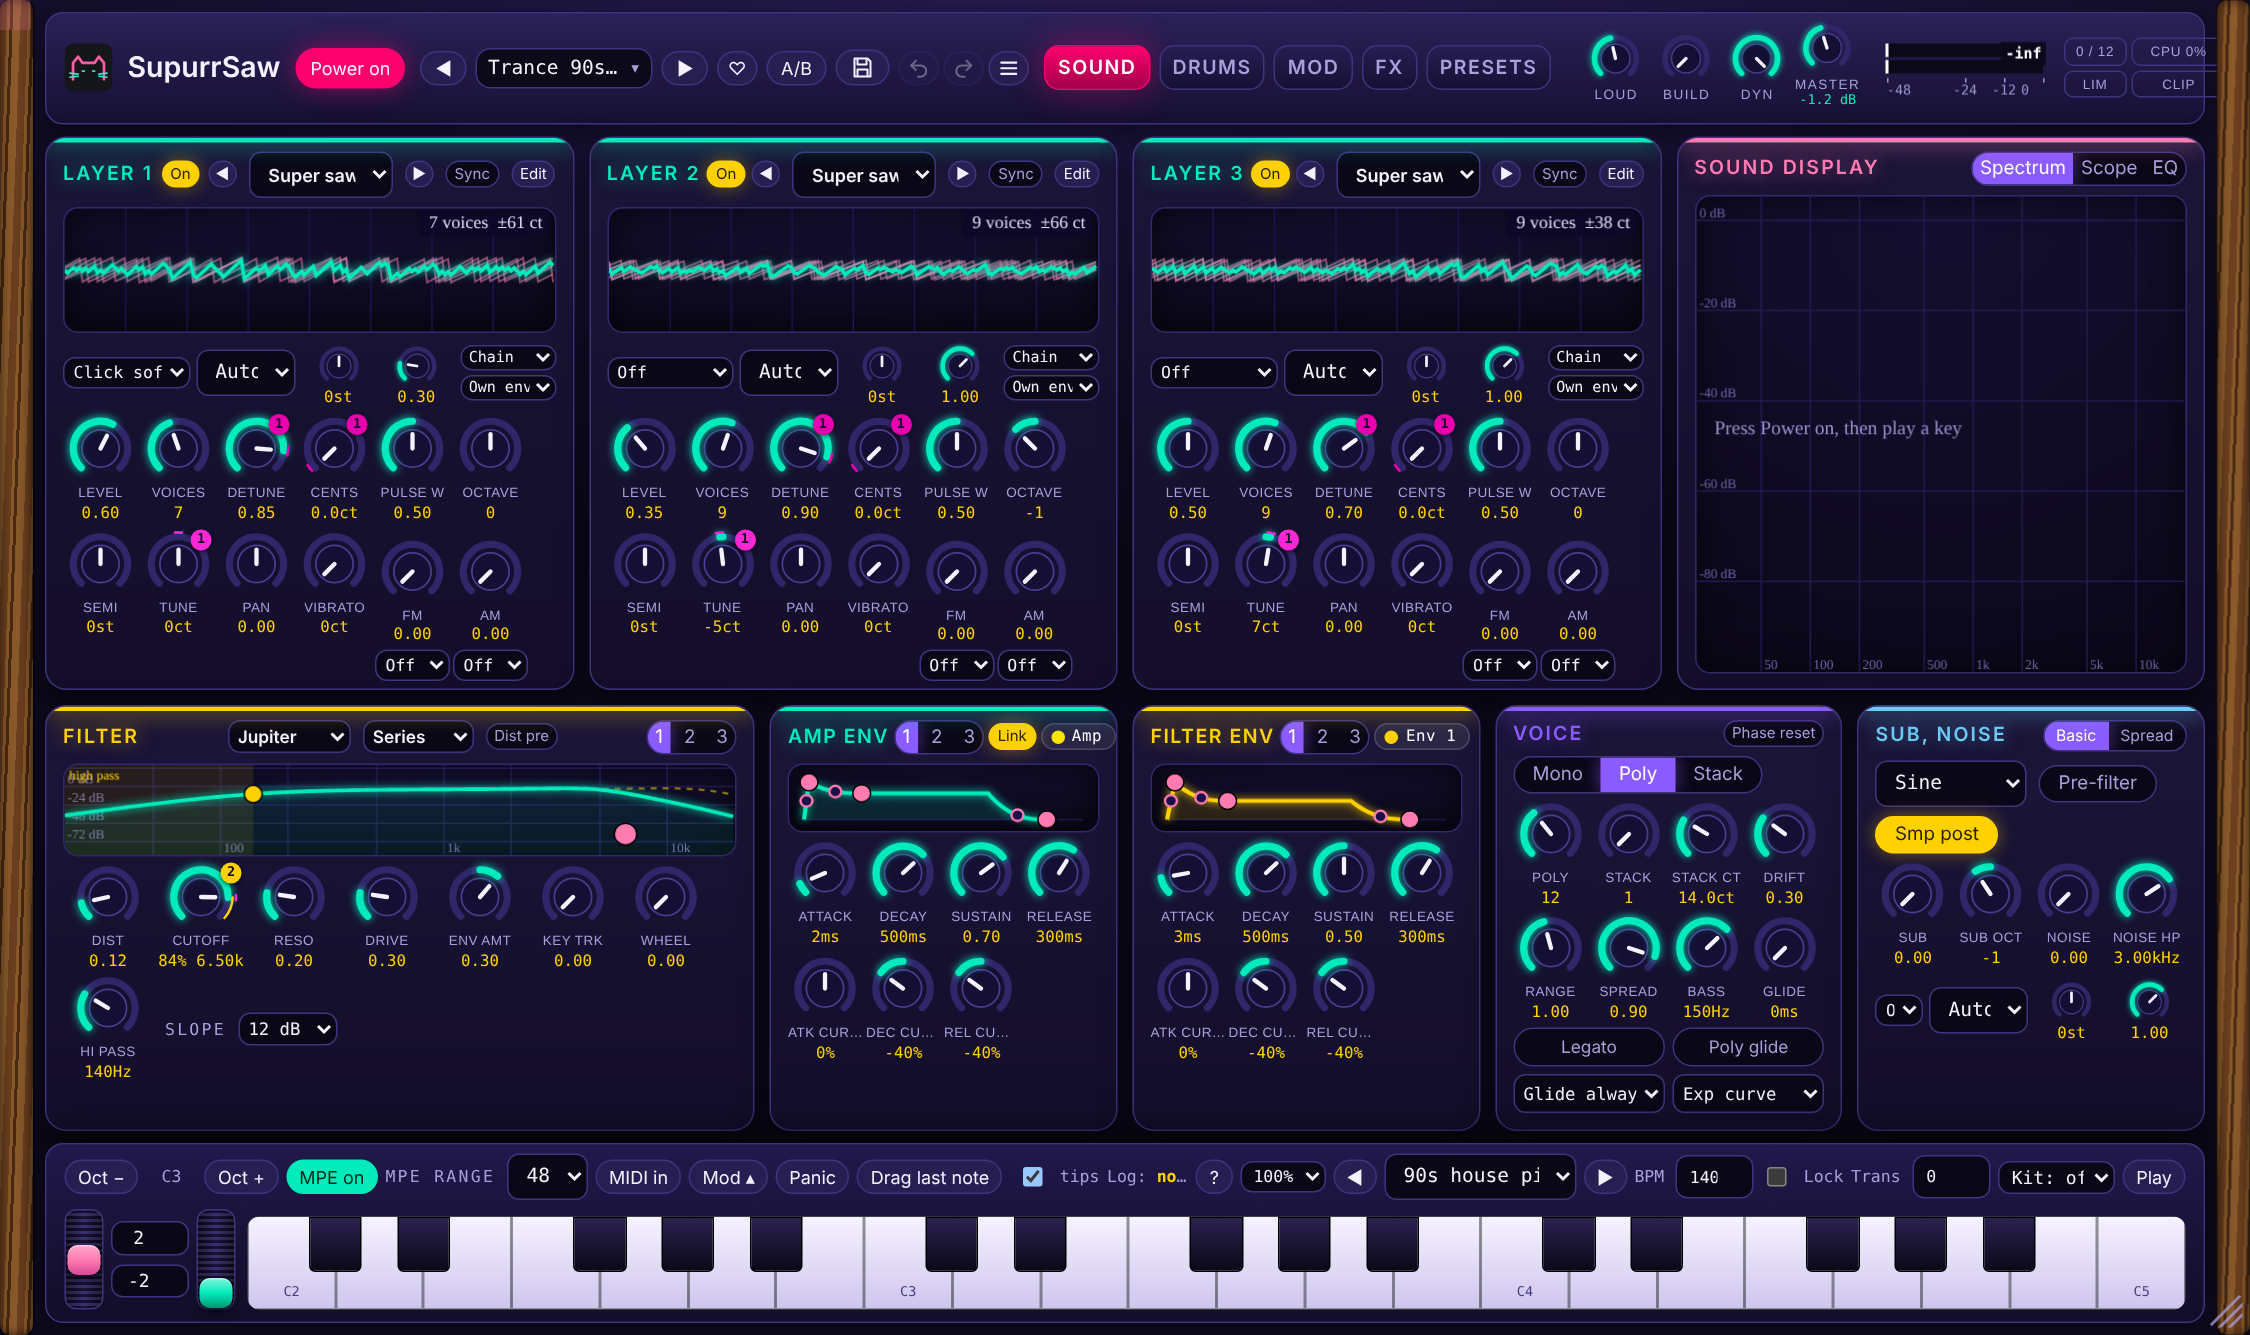
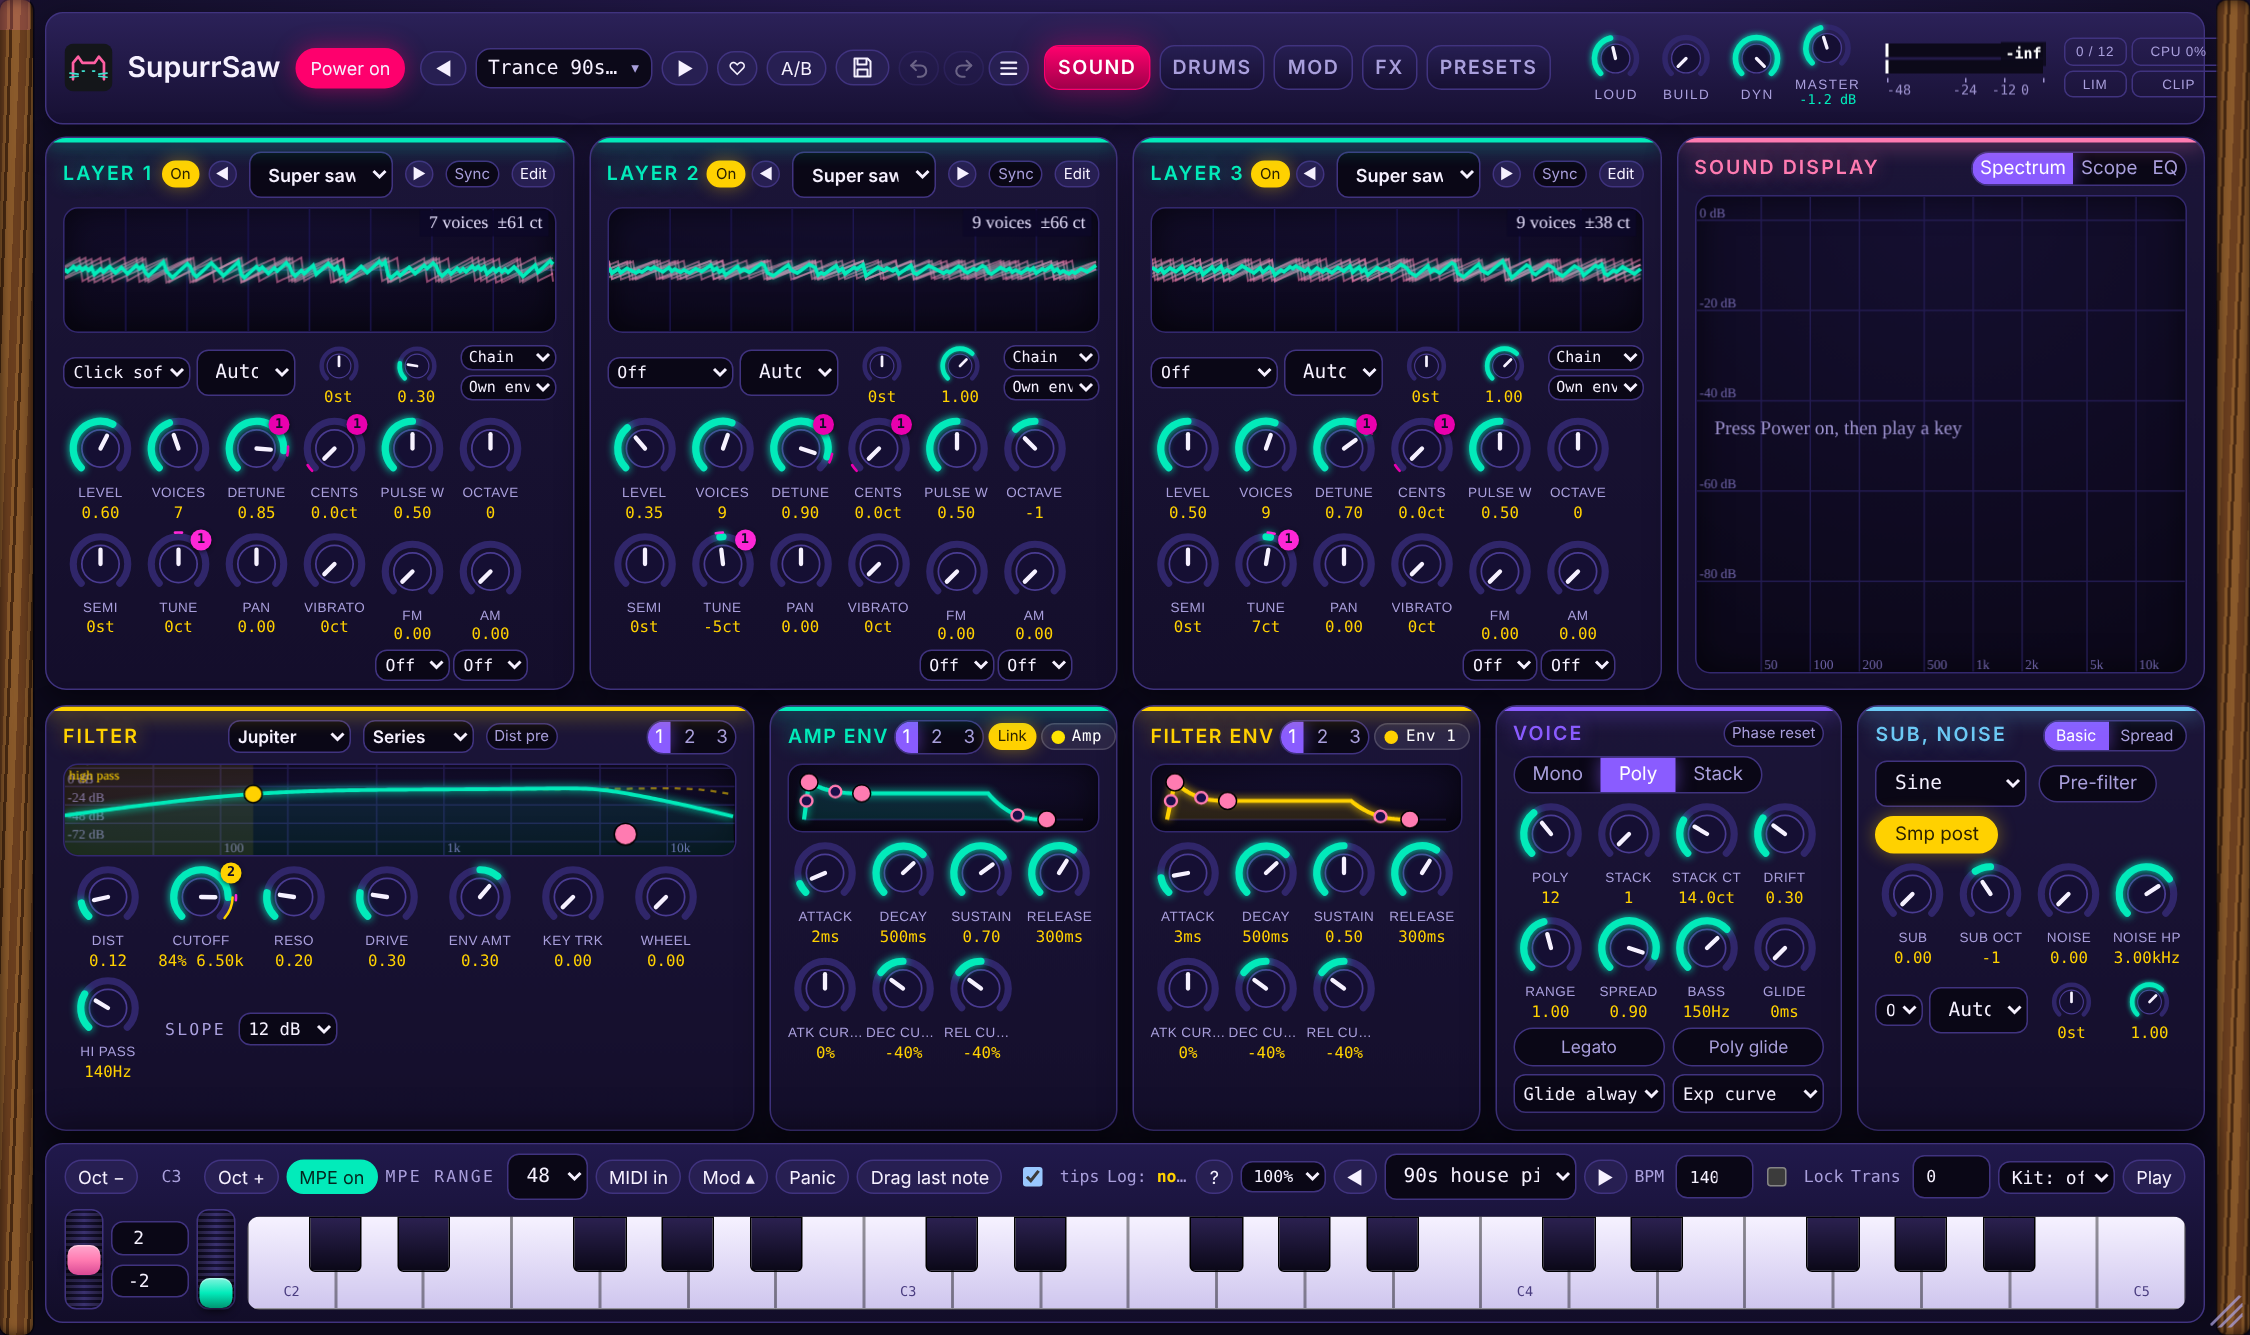
FX modules: previous/next preset arrows, Default and OFF presets in every list
Claude-Session: https://claude.ai/code/session_015F85RWM9RCbLtwwXZANyrz

Changed region(s): [[0.28, 0.1843, 0.7467, 0.215], [0.0311, 0.1843, 0.2489, 0.215]]

diff --git a/ui/supurrsaw-playground.html b/ui/supurrsaw-playground.html
@@ -228,6 +228,7 @@ canvas{display:block;max-width:100%}
 .pbr .chip.on{background:#ffa600;border-color:#ffa600;color:#241600}.pbbanks .chip.on{background:#ffa600;border-color:#ffa600;color:#241600}
 .pbfoot{display:flex;justify-content:flex-end;align-items:center;gap:10px;padding:10px 22px 14px;border-top:1px solid var(--line)}.pbfoot .pill{margin-right:auto}
 
+.fxpw{display:inline-flex;align-items:center;gap:2px;flex:0 0 auto;min-width:0}.fxar{all:unset;box-sizing:border-box;cursor:pointer;width:15px;height:21px;display:inline-flex;align-items:center;justify-content:center;font-size:8px;color:#a99fdc;border-radius:5px}.fxar:hover{color:#ffa600;background:#2a2060}.fxar:active{transform:scale(.92)}
 .dlg{position:fixed;inset:0;background:#05030fcc;display:flex;align-items:center;justify-content:center;z-index:50}.dlg[hidden]{display:none}
 .dbox{background:#150f33;border:1px solid var(--mint);border-radius:14px;padding:18px 20px;width:min(420px,92vw);box-shadow:0 10px 40px #000a}
 .dbox h3{margin:0 0 8px;font-family:Fredoka,sans-serif;letter-spacing:1px;color:var(--mint)}.dbox p{margin:0 0 12px;color:var(--fg);line-height:1.5;font-size:13.5px}
@@ -2360,6 +2361,19 @@ const FXPS={
     ["Drive off",{drvDrive:0,drvXs:0,drvFuzz:0}],
     ["Crush off",{crushMix:0}]]}
 };
+/* every module starts its list with Default (a basic working setting) and OFF (the module does nothing) */
+const FXPS_BASE={
+  mod:[{modFxType:0,chorusMix:0.25,chorusDepth:0.5,chorusRate:0.6,chorusDelay:12,chorusWidth:1,chorusFb:0.5},{chorusMix:0}],
+  dly:[{delayMix:0.25,delaySync:false,delayDiv:7,delayTime:0.25,delayFb:0.4,delayDamp:0.7,delayPing:1},{delayMix:0}],
+  rev:[{reverbMix:0.15,reverbSize:0.6,reverbWidth:0.8,reverbLowCutHz:150,reverbPre:0,reverbDamp:0.25},{reverbMix:0}],
+  sqz:[{sqzAmt:0.3,sqzAtk:4,sqzRel:90,sqzMakeup:0},{sqzAmt:0}],
+  opto:[{optoAmt:0.4,optoRel:1,optoGain:0},{optoAmt:0}],
+  ott:[{ottDepth:0.3,ottMix:0.3,ottLow:0,ottMid:0,ottHigh:0,ottTime:1},{ottDepth:0,ottMix:0}],
+  dm:[{dmMix:0.4,dmDrive:0.5,dmClip:0.35,dmLow:0,dmMid:0,dmHigh:0},{dmMix:0}],
+  wid:[{widMid:1,widHi:1,bassMonoHz:120,msMid:0,msSide:0},{widMid:1,widHi:1,msMid:0,msSide:0}],
+  pit:[{pitchAmt:0,pitchHold:0,pitchCurve:0,pitchTime:0.09,pitchAttack:0,pitchFall:0,pitchFallTime:1},{pitchAmt:0,pitchFall:0}],
+  drv:[{drvDrive:0.25,drvXs:0,drvFuzz:0,drvMix:1,crushMix:0,crushBits:16,crushRate:1},{drvDrive:0,drvXs:0,drvFuzz:0,crushMix:0}]};
+for(const id in FXPS_BASE)if(FXPS[id]&&!FXPS[id].list.some(x=>x[0]==="Default"))FXPS[id].list.unshift(["Default",FXPS_BASE[id][0]],["OFF",FXPS_BASE[id][1]]);
 const FXPS_TITLE={"Mod FX":"mod","Delay":"dly","Reverb":"rev","Squeeze":"sqz","Opto leveller":"opto","OTT":"ott","Drive":"drv"};
 const FXU={};   // your own presets per effect: {id:[[name,{...}],...]}
 function fxpsSave(id){try{if(DB)DB.doc("fxpresets/"+id).set({list:(FXU[id]||[]).slice(0,60).map(([n,p])=>({name:n,p:JSON.stringify(p)}))});}catch(e){}}
@@ -2371,28 +2385,32 @@ function fxpsApply(id,p){const keys=FXPS[id].keys;
   if(id==="mod"){if(typeof mfxLast!=="undefined")mfxLast=P.modFxType|0;mfxPush(true);}}
 function fxpsSnap(id){const o={};FXPS[id].keys.forEach(k=>{if(k!=="mfxMulti")o[k]=P[k];});if(id==="mod"&&P.mfxMulti){const nt=P.modFxType|0,mu={};for(let t=0;t<3;t++){if(t===nt)continue;const st=MFXS[t];if(st)mu[t]=Object.assign({},st);}o.multi=mu;}return o;}
 function fxpsMenu(c,id,ref,host,title){
-  const h2=c.querySelector("h2"),s=el("select",ref?ref.className:"");s.style.cssText="max-width:"+(id==="opto"?"78px":"112px")+";min-width:0;font-size:10.5px;padding:2px 4px";h2.style.whiteSpace="nowrap";h2.style.gap="6px";
+  const h2=c.querySelector("h2"),s=el("select",ref?ref.className:"");s.style.cssText="max-width:"+(id==="opto"?"60px":(id==="mod"?"92px":"108px"))+";min-width:0;font-size:10.5px;padding:2px 4px";h2.style.whiteSpace="nowrap";h2.style.gap="6px";
   s.dataset.tip="Presets for this effect. Pick one to load its knob settings. Choose Save current to keep your own, they stay in the list.";
   let applying=false,cur="";
   const fill=()=>{s.innerHTML="";const add=(p,t,v)=>{const o=document.createElement("option");o.value=v;o.textContent=t;p.appendChild(o);};
     add(s,"Presets","");
     const g1=document.createElement("optgroup");g1.label="Factory";FXPS[id].list.forEach(([n],i)=>add(g1,n,"f"+i));s.appendChild(g1);
-    const u=FXU[id]||[];if(u.length){const g2=document.createElement("optgroup");g2.label="Mine";u.forEach(([n],i)=>add(g2,n,"u"+i));s.appendChild(g2);}
+    const u=FXU[id]||[];if(u.length){const g2=document.createElement("optgroup");g2.label="Mine";u.forEach(([n],i)=>add(g2,FXPS[id].list.some(x=>x[0]===n)?n+" (mine)":n,"u"+i));s.appendChild(g2);}
     const g3=document.createElement("optgroup");g3.label="Manage";add(g3,"Save current...","save");if(cur[0]==="u")add(g3,"Delete this preset","del");s.appendChild(g3);s.value=cur;};
   fill();
+  const load=v=>{const p=v[0]==="f"?FXPS[id].list[+v.slice(1)][1]:(FXU[id]||[])[+v.slice(1)][1];if(!p)return;
+    applying=true;fxpsApply(id,p);applying=false;cur=v;fill();
+    if(id==="drv"){const want=("crushMix" in p)&&!("drvDrive" in p)?"Crush":"Drive";const tb=[...c.querySelectorAll(".seg button")].find(x=>x.textContent.trim()===want);if(tb)tb.click();}};
+  const step=d=>{const all=[];FXPS[id].list.forEach((_,i)=>all.push("f"+i));(FXU[id]||[]).forEach((_,i)=>all.push("u"+i));if(!all.length)return;let i=all.indexOf(cur);i=i<0?(d>0?0:all.length-1):(i+d+all.length)%all.length;load(all[i]);};
   s.onchange=async()=>{const v=s.value;
     if(v==="save"){const t=title||h2.firstChild.textContent.trim();const r=await ask({title:"Save "+t+" preset",msg:"Saves the current "+t+" settings under this name.",input:"My "+t.toLowerCase(),buttons:[{t:"Save",k:"on",def:1},{t:"Cancel"}]});
       if(r.b==="Save"&&r.v&&r.v.trim()){const n=r.v.trim().slice(0,40),u=FXU[id]||(FXU[id]=[]),i=u.findIndex(x=>x[0]===n);if(i>=0)u[i]=[n,fxpsSnap(id)];else u.push([n,fxpsSnap(id)]);fxpsSave(id);cur="u"+(i>=0?i:u.length-1);}fill();return;}
     if(v==="del"){const i=+cur.slice(1),u=FXU[id]||[];if(u[i]){const r=await ask({title:"Delete this preset?",msg:"\""+u[i][0]+"\" will be removed from your list.",buttons:[{t:"Delete",k:"danger"},{t:"Keep",k:"on",def:1}]});if(r.b==="Delete"){u.splice(i,1);fxpsSave(id);cur="";}}fill();return;}
     if(!v){cur="";return;}
-    const p=v[0]==="f"?FXPS[id].list[+v.slice(1)][1]:(FXU[id]||[])[+v.slice(1)][1];if(!p)return;
-    applying=true;fxpsApply(id,p);applying=false;cur=v;fill();
-    if(id==="drv"){const want=("crushMix" in p)&&!("drvDrive" in p)?"Crush":"Drive";const tb=[...c.querySelectorAll(".seg button")].find(x=>x.textContent.trim()===want);if(tb)tb.click();}};
+    load(v);};
   onChange(k=>{if(!applying&&cur&&(FXPS[id].keys.includes(k)||k==="all")){cur="";fill();}});
   c._fxFill=()=>{fill();};c._fxId=id;
-  if(host){host.appendChild(s);return s;}
+  const arrow=(t,d,tip)=>{const b=el("button","fxar",t);b.type="button";b.dataset.tip=tip;b.onclick=e=>{e.stopPropagation();step(d);};return b;};
+  const wrap=el("span","fxpw");wrap.append(arrow("\u25C0",-1,"Previous preset of this effect (wraps around)."),s,arrow("\u25B6",1,"Next preset of this effect (wraps around)."));
+  if(host){host.appendChild(wrap);return s;}
   const sub=h2.querySelector(".sub");if(sub)sub.remove();
-  h2.appendChild(s);return s;}
+  h2.appendChild(wrap);return s;}
 function fxpsAttach(F){const ref=F.querySelector("select");F.querySelectorAll(".card").forEach(c=>{const h=c.querySelector("h2");if(!h||!h.firstChild)return;const id=FXPS_TITLE[h.firstChild.textContent.trim()];if(id)fxpsMenu(c,id,ref);});}
 function buildFx(F){
   // output and limiter
@@ -2422,7 +2440,7 @@ function buildFx(F){
      for(let b=0;b<3;b++){const a=hist[b];g.strokeStyle=cols[b];g.lineWidth=2;g.beginPath();a.forEach((v,i)=>{const x=w-(a.length-i)*2,y=3+clamp(v/R,0,1)*(h-8);i?g.lineTo(x,y):g.moveTo(x,y);});g.stroke();}
      g.fillStyle="#a99fdc";g.font="9px IBM Plex Mono";g.fillText("squeeze: low / mid / high",4,h-3);g.textAlign="right";g.fillText("0 dB",w-3,10);g.textAlign="left";},"Gain reduction of the three bands over the last seconds, newest on the right. Higher on the graph means more reduction.");
    STAGE&&(c1.classList.remove("fl"),c2.classList.remove("fl"));c1.style.flex="1";c2.style.flex="2";c1.style.minWidth="0";c2.style.minWidth="0";c1.style.marginTop=c2.style.marginTop="0";gr.appendChild(c1);gr.appendChild(c2);c.appendChild(gr);
-   {const dp=el("div","vf"),wp=el("div","vf");[...c.children].slice(1).forEach(x=>dp.appendChild(x));c.appendChild(dp);c.appendChild(wp);wp.hidden=true;const dr=el("div","row"),wr=el("div","row");dr.style.cssText=wr.style.cssText="justify-content:flex-start;margin-bottom:4px";dp.insertBefore(dr,dp.firstChild);wp.insertBefore(wr,wp.firstChild);{const g0=dp.querySelector("canvas");gr.querySelectorAll("canvas").forEach(x=>{x.style.height="61px"});gr.style.flex="0 0 auto";dp.style.cssText+=";display:flex;flex-direction:column;flex:1 1 auto;min-height:0";if(g0){g0.style.flex="1 1 60px";g0.style.height="auto";g0.style.minHeight="60px";}}fxpsMenu(c,"dm",null,dr,"Dance master");fxpsMenu(c,"wid",null,wr,"Width");const hd=c.querySelector("h2");const dsel=dr.querySelector("select"),wsl=wr.querySelector("select");[dsel,wsl].forEach(x=>{if(x){x.style.marginLeft="auto";x.style.maxWidth="150px";}});dr.style.display=wr.style.display="none";if(dsel)hd.appendChild(dsel);if(wsl){wsl.hidden=true;hd.appendChild(wsl);}
+   {const dp=el("div","vf"),wp=el("div","vf");[...c.children].slice(1).forEach(x=>dp.appendChild(x));c.appendChild(dp);c.appendChild(wp);wp.hidden=true;const dr=el("div","row"),wr=el("div","row");dr.style.cssText=wr.style.cssText="justify-content:flex-start;margin-bottom:4px";dp.insertBefore(dr,dp.firstChild);wp.insertBefore(wr,wp.firstChild);{const g0=dp.querySelector("canvas");gr.querySelectorAll("canvas").forEach(x=>{x.style.height="61px"});gr.style.flex="0 0 auto";dp.style.cssText+=";display:flex;flex-direction:column;flex:1 1 auto;min-height:0";if(g0){g0.style.flex="1 1 60px";g0.style.height="auto";g0.style.minHeight="60px";}}fxpsMenu(c,"dm",null,dr,"Dance master");fxpsMenu(c,"wid",null,wr,"Width");const hd=c.querySelector("h2");const dsel=dr.querySelector("select").parentNode,wsl=wr.querySelector("select").parentNode;[dsel,wsl].forEach(x=>{if(x){x.style.marginLeft="auto";x.style.maxWidth="150px";}});dr.style.display=wr.style.display="none";if(dsel)hd.appendChild(dsel);if(wsl){wsl.hidden=true;hd.appendChild(wsl);}
     const tb=el("span","seg");[["Dance","3 band compressor, clipper and the one-click starting points."],["Width","Stereo width, mono bass, and saturation of the mid and side signals."]].forEach(([t,tp],i)=>{const bt=el("button",i?"":"on",t);bt.dataset.tip=tp;bt.onclick=()=>{dp.hidden=!!i;wp.hidden=!i;if(dsel)dsel.hidden=!!i;if(wsl)wsl.hidden=!i;[...tb.children].forEach((x,j)=>x.classList.toggle("on",j===i));drawAll();};tb.appendChild(bt);});c.querySelector("h2").appendChild(tb);
     wp.appendChild(knobRow([N("widMid","Wid low",0,2,0.01,"","Stereo width below 2 kHz. 1 is as it comes, 0 is mono, up to 2 is double. Be careful: wide lows can hurt on a club system, the Mono below knob keeps the very low end centred."),N("widHi","Wid high",0,2,0.01,"","Stereo width above 2 kHz. 1 is as it comes, 0 is mono, up to 2 is double. Wide highs give air without hurting the bass."),LG("bassMonoHz","Mono",20,400,"Hz","Everything below this goes to mono. Same knob as Bass in the Voice card."),N("msMid","Mid drv",0,1,0.01,"","Saturation on the centre (mid) signal only: thickens the middle without touching the width."),N("msSide","Side drv",0,1,0.01,"","Saturation on the side signal above 2 kHz only: adds shimmer and width character to the highs.")]));
     wp.appendChild(fxGraph(150,(g,w,h)=>{const mh=clamp(P.bassMonoHz,20,400),f2=2000,X=f=>Math.log(f/20)/Math.log(1000)*w,Y=v=>h-6-v/2*(h-14);
